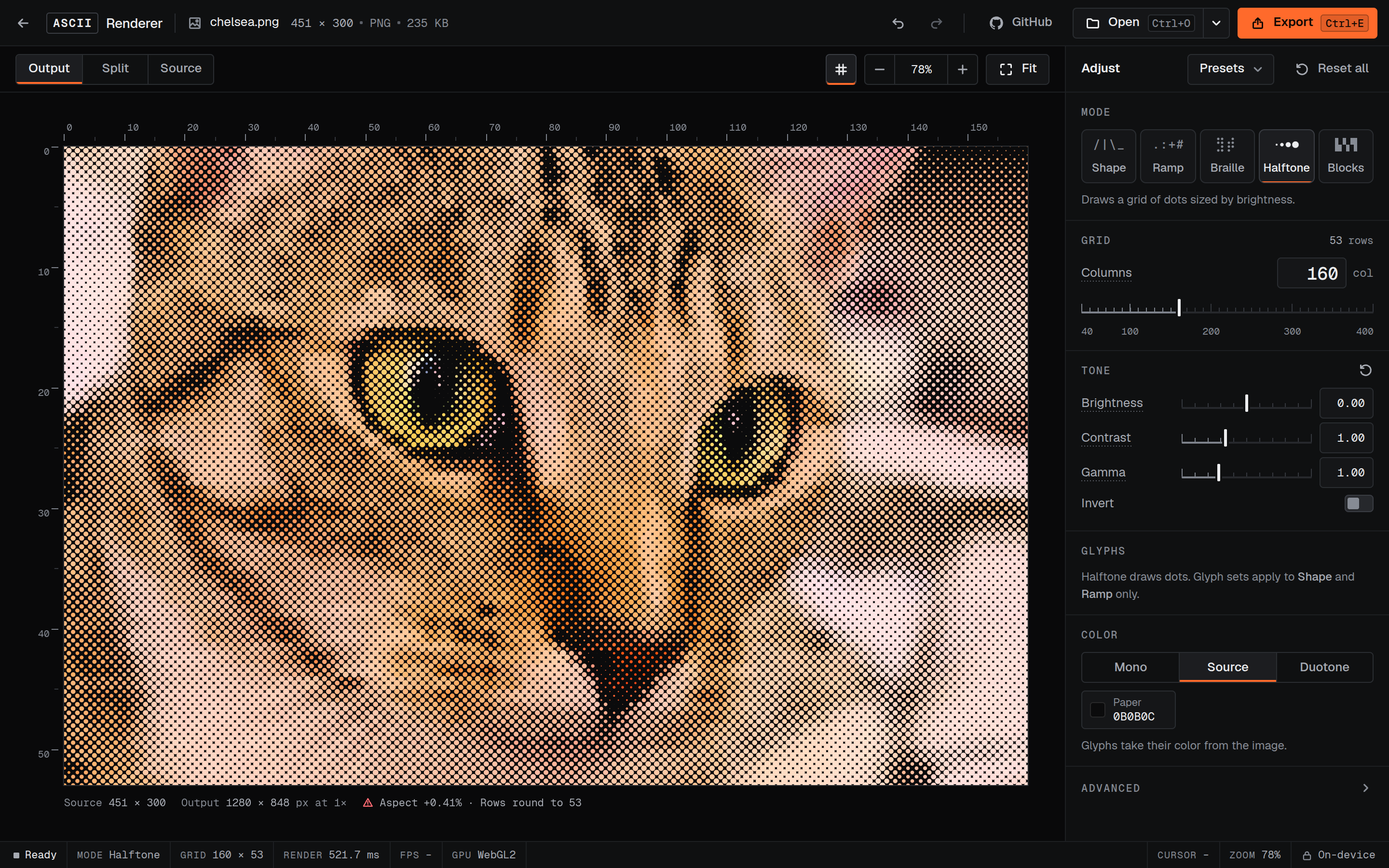
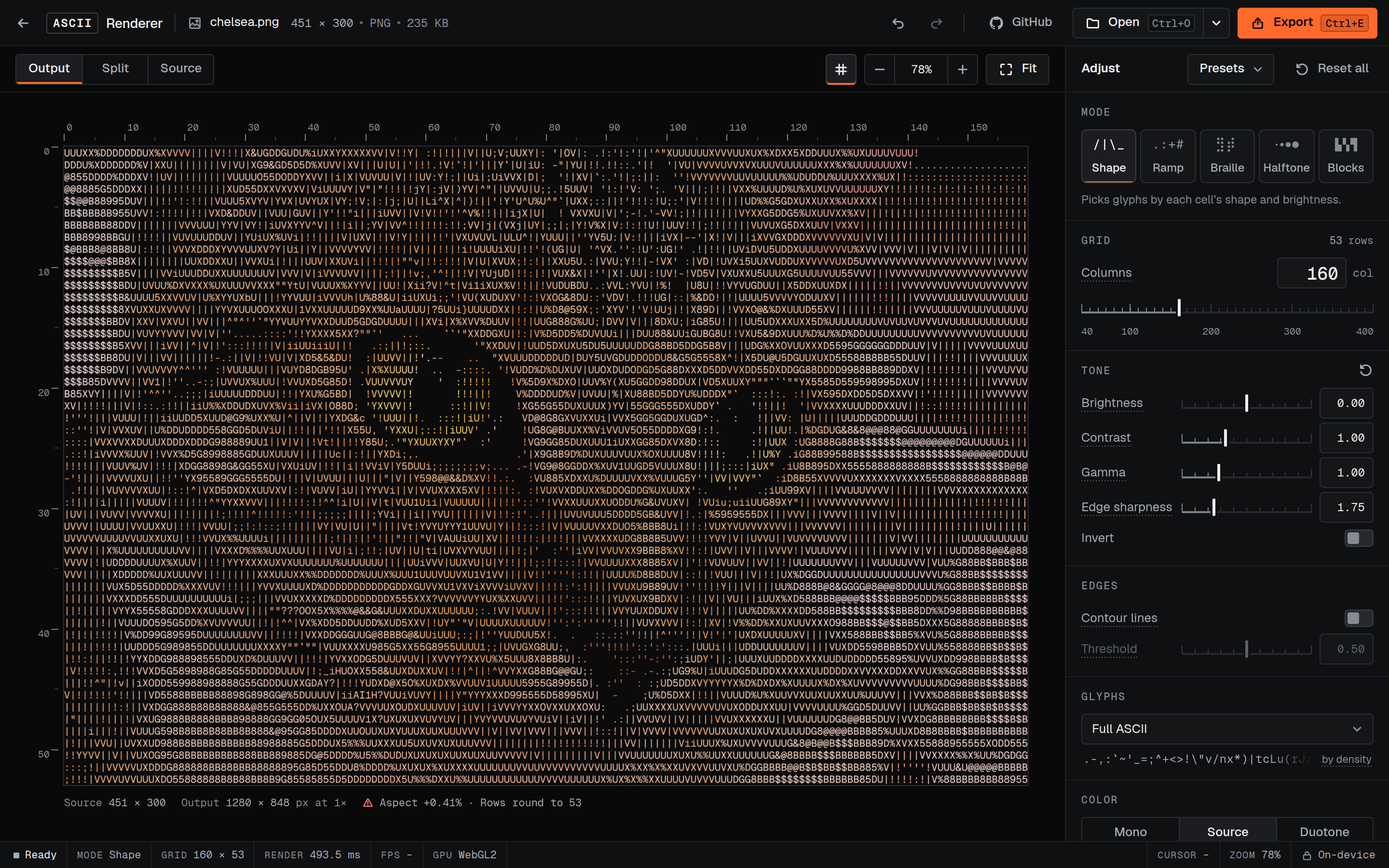
Show the colour theme screenshots in Shape mode
Claude-Session: https://claude.ai/code/session_01HHMhdRCXwT8wqUqbYuVJnP

diff --git a/case-study/README.md b/case-study/README.md
@@ -67,6 +67,6 @@ The video sample was transcoded to WebM for capture, because the test browser ca
   - `shortcuts-sheet.png`: the keyboard shortcuts sheet, recaptured with nothing focused and cropped above the status bar.
   - `cell-probe.png`: hovering over a cell on the torus's top edge (column 98, row 6, `_`, brightness 0.38).
   - `split-view-source.png`: `new-03-split-vs-source.png` cropped above the status bar.
-  - `colour-mono-cat.png`, `colour-source-cat.png`, `colour-duotone-cat.png`: the full editor with a cat photo in Halftone, in Mono, Source and Duotone (blue shadow ink, orange ink). The photo is "Chelsea" from scikit-image's sample data, CC0 by Stefan van der Walt.
+  - `colour-mono-cat.png`, `colour-source-cat.png`, `colour-duotone-cat.png`: the full editor with a cat photo in Shape mode, in Mono, Source and Duotone (blue shadow ink, orange ink). The photo is "Chelsea" from scikit-image's sample data, CC0 by Stefan van der Walt.
   - `colour-themes-halftone.png`: the planet sample in Halftone, in Mono, in Mono with dark ink on light paper (inverted), and in Duotone with blue shadows and orange highlights. The bundled samples are greyscale, so Source colour isn't shown.
 - The cover is the Shape-mode animation export, as `cover.webm`, an H.264 `cover.mp4` for Safari, and `cover-poster.jpg`.
